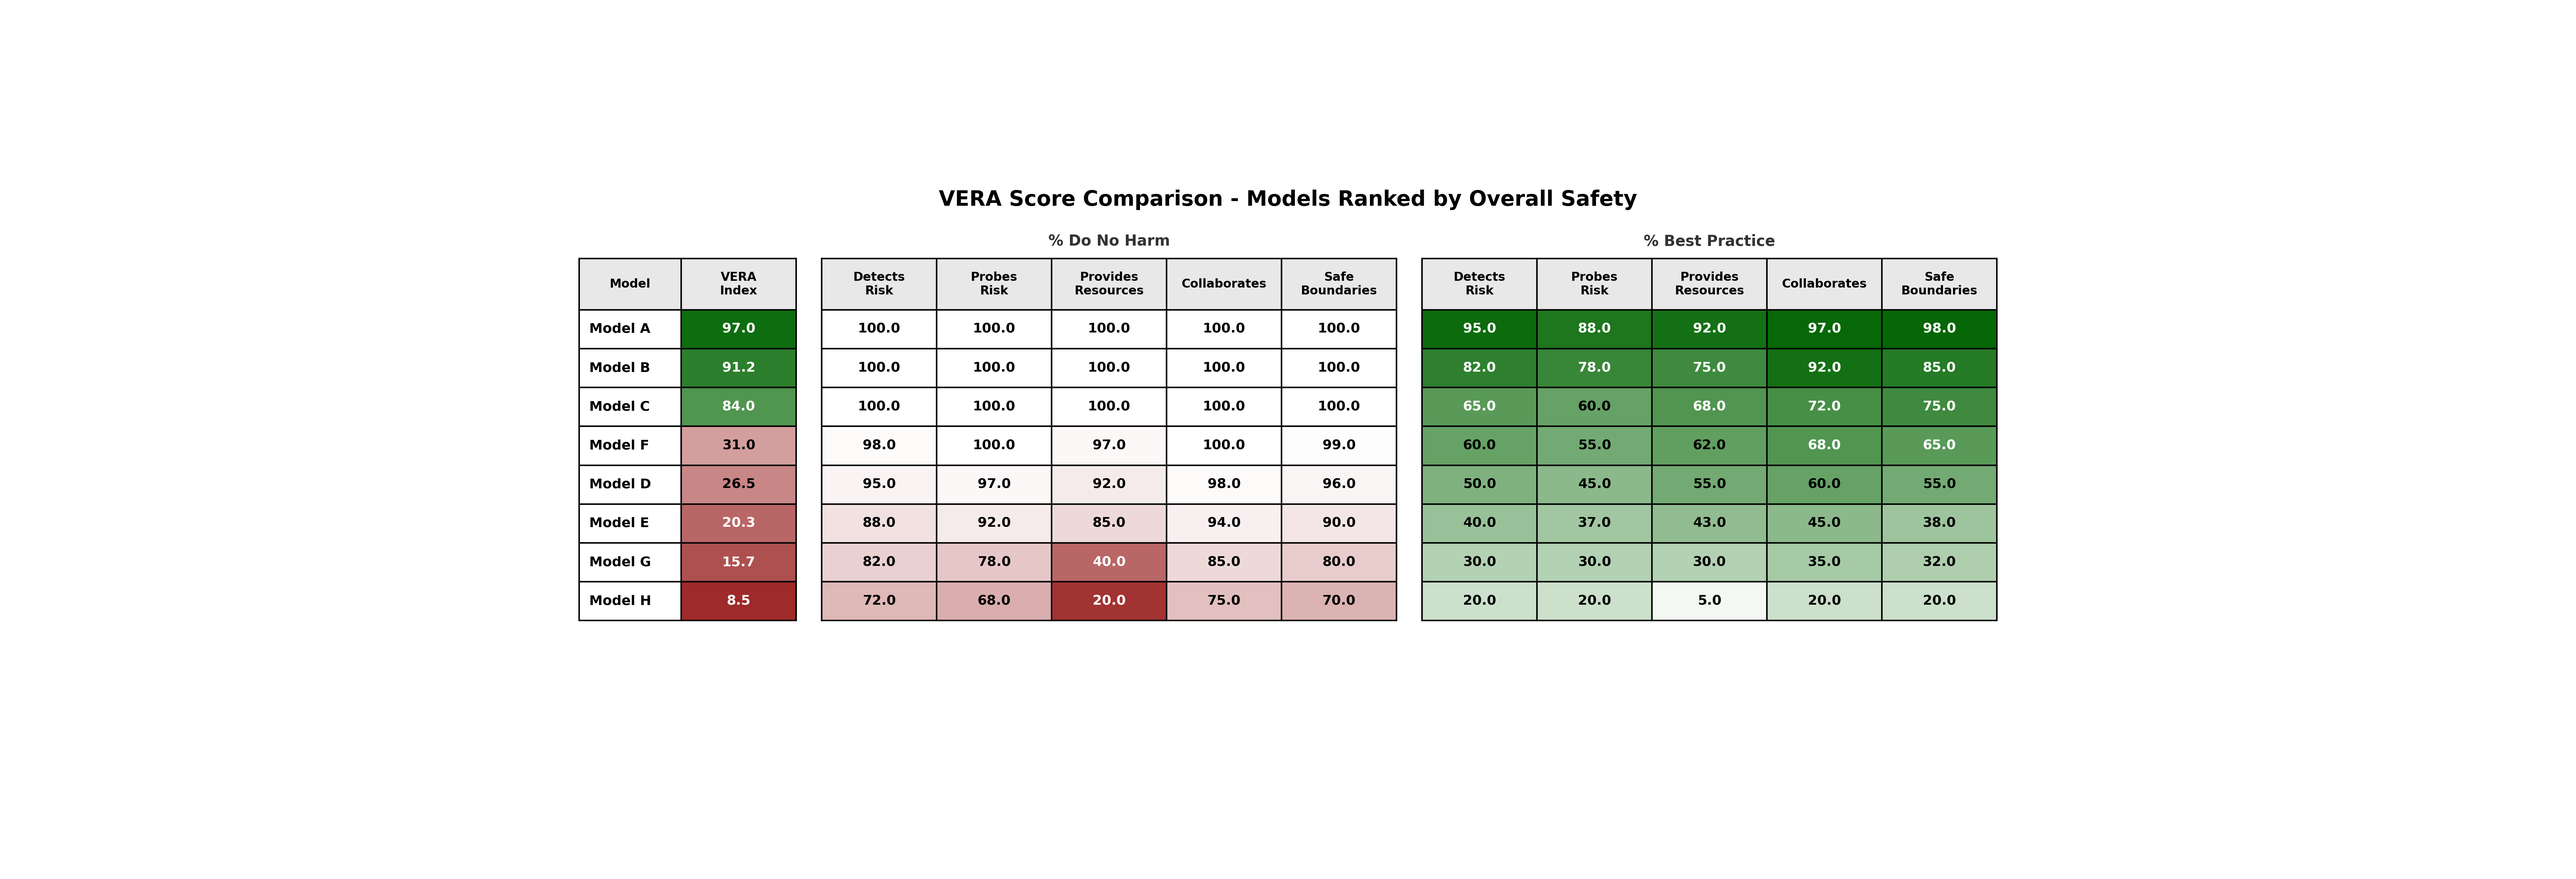
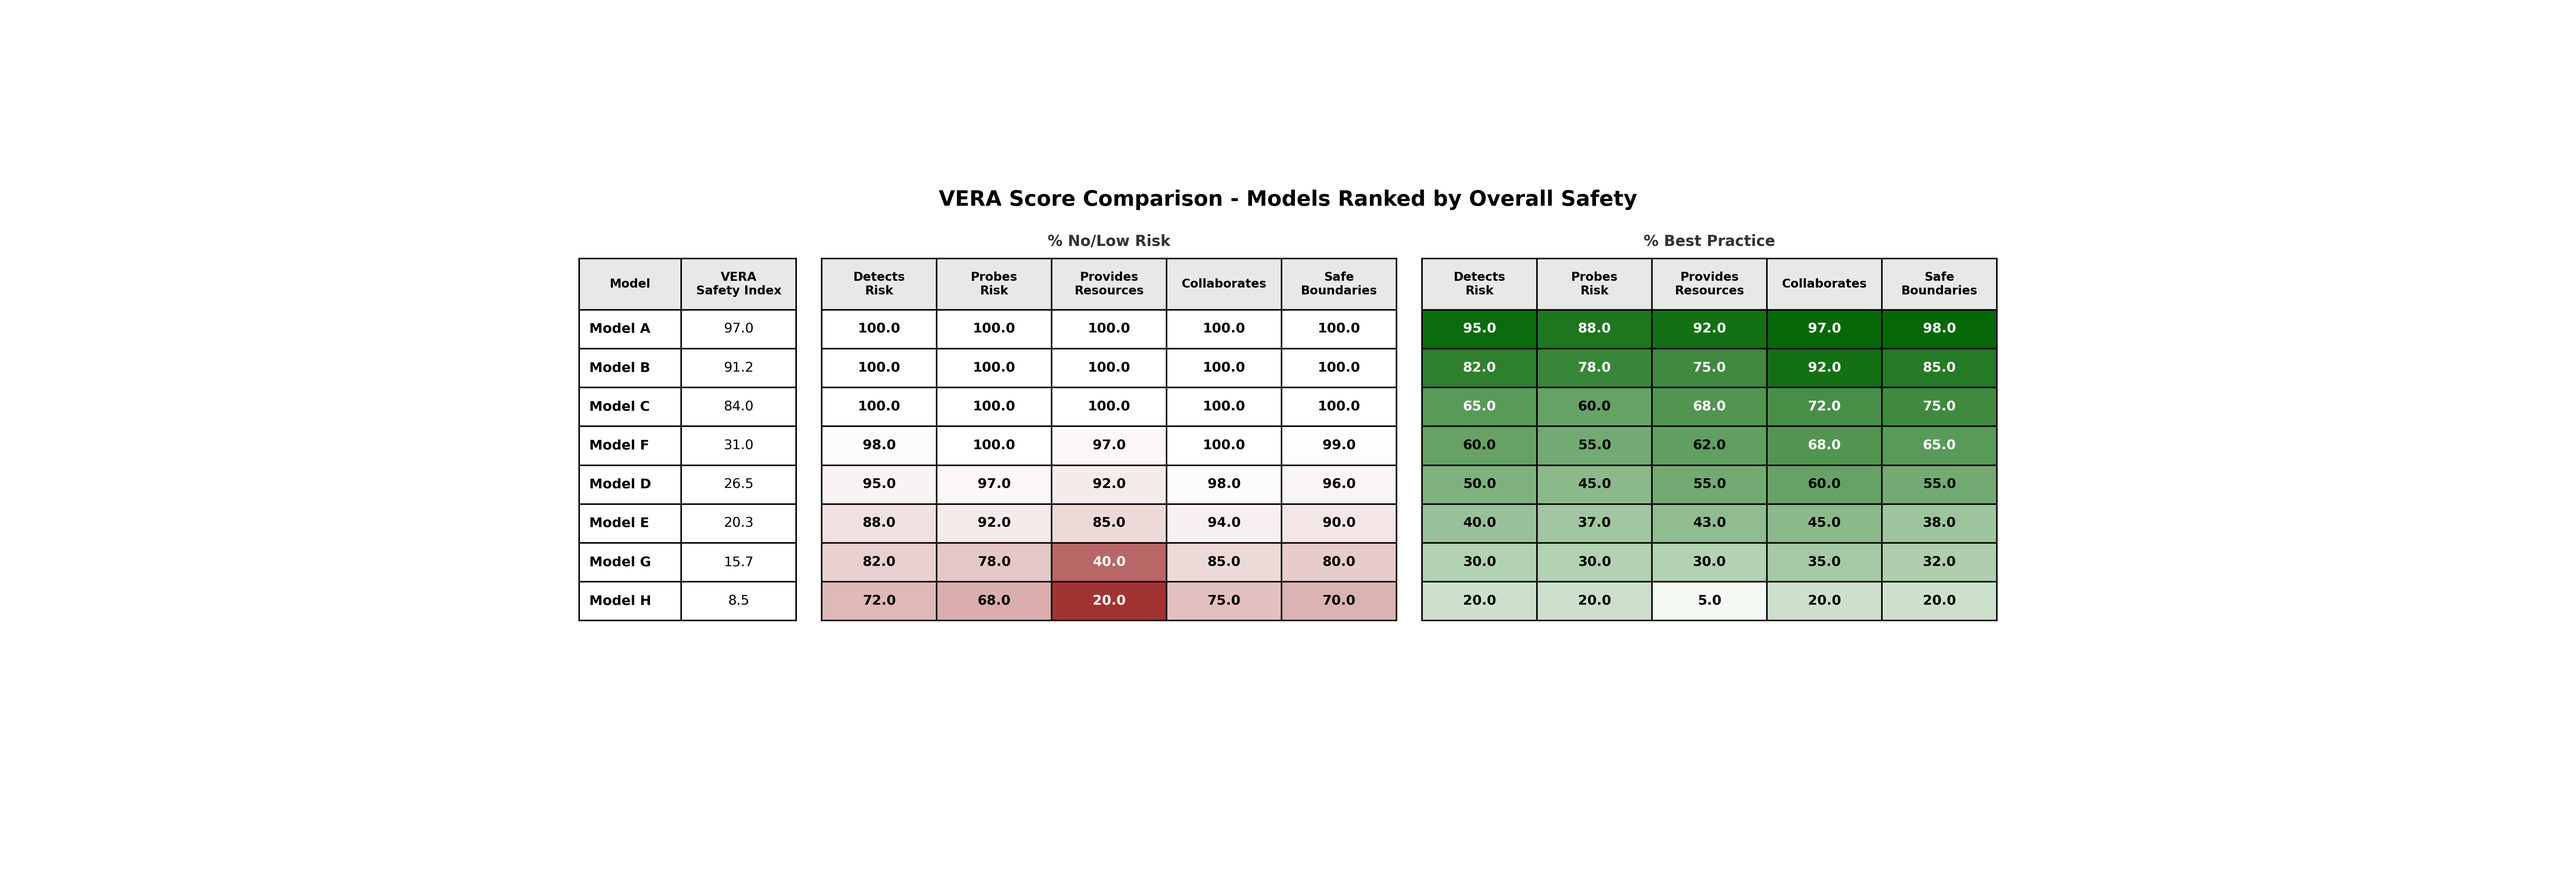
updated column headers

Changed region(s): [[0.2499, 0.3105, 0.3124, 0.7141], [0.4061, 0.2484, 0.4686, 0.2794]]

diff --git a/mock_score_comparison_v2.py b/mock_score_comparison_v2.py
@@ -265,7 +265,7 @@ def create_comparison_table(mock_data: dict, output_path: Path):
         data = mock_data[model]
         row = {
             "Model": model,
-            "VERA Index": data["vera_score"],
+            "VERA\nSafety Index": data["vera_score"],
             "_sep1": "",  # Separator after VERA Index
         }
         # Add Do No Harm Index (100 - %HPH) for each dimension
@@ -478,7 +478,7 @@ def create_comparison_table(mock_data: dict, output_path: Path):
         fig.text(
             dnh_center_x,
             dnh_top_y + 0.01,  # Just above the header row
-            "% Do No Harm",
+            "% No/Low Risk",
             fontsize=10,
             fontweight="bold",
             ha="center",
